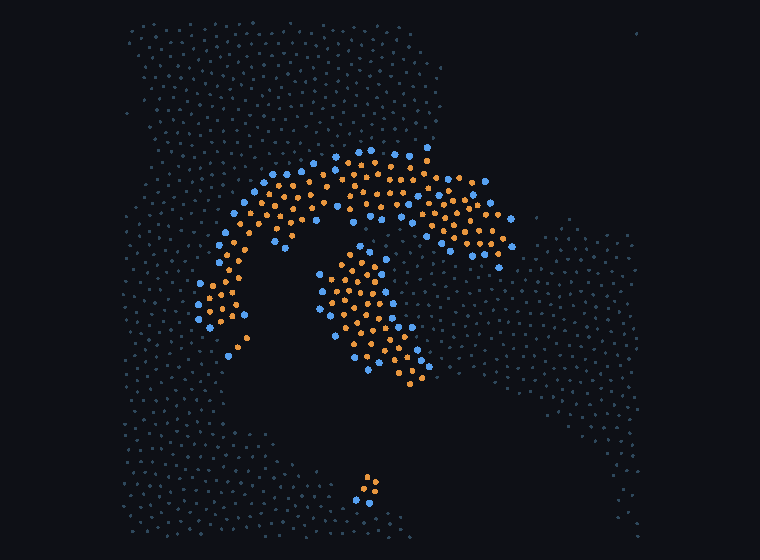
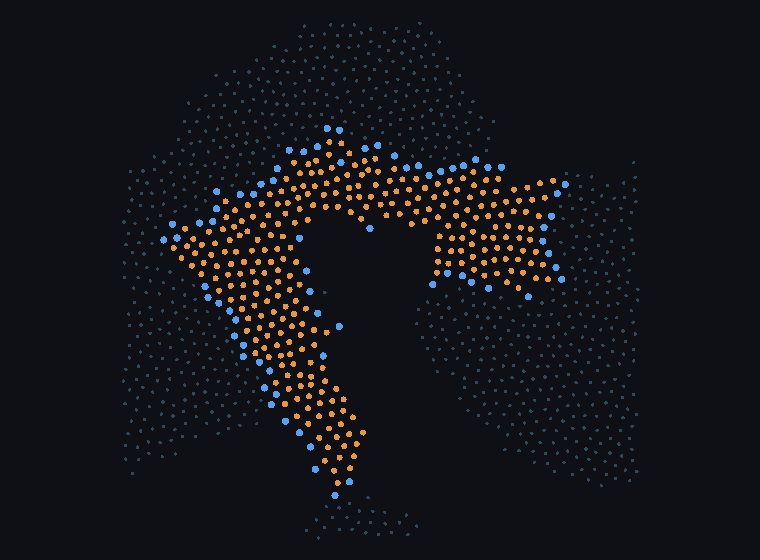
vivarium: A CRITICAL SIZE APPEARS -- planted arcs stop unrolling above ~120 lipids
Critical-size test, planted arc0.75, branched, kT = 0.45, L = 40, 60000 steps:

    N     R_mid   shell CV   lumen ratio   lumen water   outcome
    70     9.79      0.370          0.00             0   lumen lost, unrolls
   120    11.72      0.353          1.40            85   lumen retained
   200    17.04      0.218          1.12            45   lumen retained, most shell-like
   300       --         --            --            --   CRASHED, box too small

The render at N = 200 shows a nearly closed thick annulus: large central lumen, heads lining both the
inner and outer boundaries, one remaining seam. At N = 70 the identical plant unrolls flat. First arc
in this project to hold its curvature, with the threshold between 70 and 120.

This retroactively explains the three earlier closure failures: ALL used ~70 lipids, i.e. below the
threshold, so unrolling was the correct behaviour and none of them was evidence about the model. That
risk was written down when this test was designed, which is why it should have been run before them
rather than after.

Planted, not emergent -- a statement about stable states, not reachability. Emergence is unchanged:
45 branched lipids dispersed at L = 28 give HOLLOW 0 of 41 and the same demixing slab as every other
condition (N = 45/70, L = 28/40, linear and branched, kT = 0.17/0.45/0.55).

Bug: the sweep hard-coded L = 40 across a 4x range in lipid count, so N = 300 was unrunnable.
[…]

diff --git a/projects/vivarium/docs/AUTONOMOUS_LOG.md b/projects/vivarium/docs/AUTONOMOUS_LOG.md
@@ -539,3 +539,48 @@ fluid, stripe-favoured, ring-favourable), each time with a NEW mechanism propose
 -- same hypothesis falsified three times with no new mechanism -- has not strictly fired. But the
 critical-size test is the last idea in the current frame. If it fails too, this warrants a reviewer
 prompt rather than a sixth regime.
+
+---
+
+## 2026-08-19 tick — A CRITICAL SIZE APPEARS. Planted arcs stop unrolling above ~120 lipids
+
+**Critical-size test, planted arc0.75, branched, kT = 0.45, L = 40, 60000 steps:**
+
+| N | R_mid | shell CV | lumen ratio | lumen water | outcome |
+|---|---|---|---|---|---|
+| 70 | 9.79 | 0.370 | **0.00** | 0 | lumen lost, unrolls |
+| 120 | 11.72 | 0.353 | 1.40 | 85 | lumen retained |
+| **200** | 17.04 | **0.218** | 1.12 | 45 | lumen retained, most shell-like |
+| 300 | — | — | — | — | CRASHED: box too small |
+
+**The prediction is supported.** The render at N = 200 shows a nearly closed thick annulus with a
+large central lumen, heads lining BOTH the inner and outer boundaries, and a remaining seam at the
+lower right. At N = 70 the identical plant unrolls flat. This is the first arc in the project to hold
+its curvature rather than flatten, and the threshold sits between 70 and 120.
+
+That also retroactively explains the three earlier closure failures: **all used ~70 lipids, which is
+below the threshold.** They were run in a regime where unrolling is the correct behaviour, so none of
+them was evidence about the model -- exactly the risk flagged when this test was designed, and the
+reason it should have been run before them.
+
+**Planted, not emergent.** This is closure of a planted arc, i.e. a statement about which states are
+stable, not about reachability.
+
+**Emergence is unchanged.** 45 branched lipids, dispersed, L = 28: HOLLOW 0 of 41, all 45 in one
+aggregate, dense slab with water expelled -- the same demixing phenotype as every other condition
+tried. Emergence has now given the same answer at N = 45, 70 (L = 28 and L = 40), linear and branched,
+kT = 0.17/0.45/0.55.
+
+**Bug.** N = 300 crashed on `L=40.0 too small for 300 lipids at packing fraction 0.55`. The sweep
+hard-coded one box size across a 4x range in lipid count, so the largest arm was unrunnable. Relaunched
+with the box scaled to the lipid count (N = 300 at L = 52, plus N = 150 at L = 44 to tighten the
+threshold).
+
+**Falsification for the next run, stated first.** If N = 300 and N = 150 also retain their lumen, the
+threshold is confirmed between 70 and 120 and kappa follows from `pi*kappa/R = 2*lambda` at that
+radius. If N = 300 unrolls where N = 200 did not, the ordering is non-monotonic and the continuum
+picture fails -- which would put the +40.7 kT line tension in question too.
+
+**Also queued:** an emergence run at N = 200, L = 52 -- ABOVE the newly found critical size. Every
+emergence run so far has been below it, so none of them could have closed. That is the single most
+important consequence of this tick.
